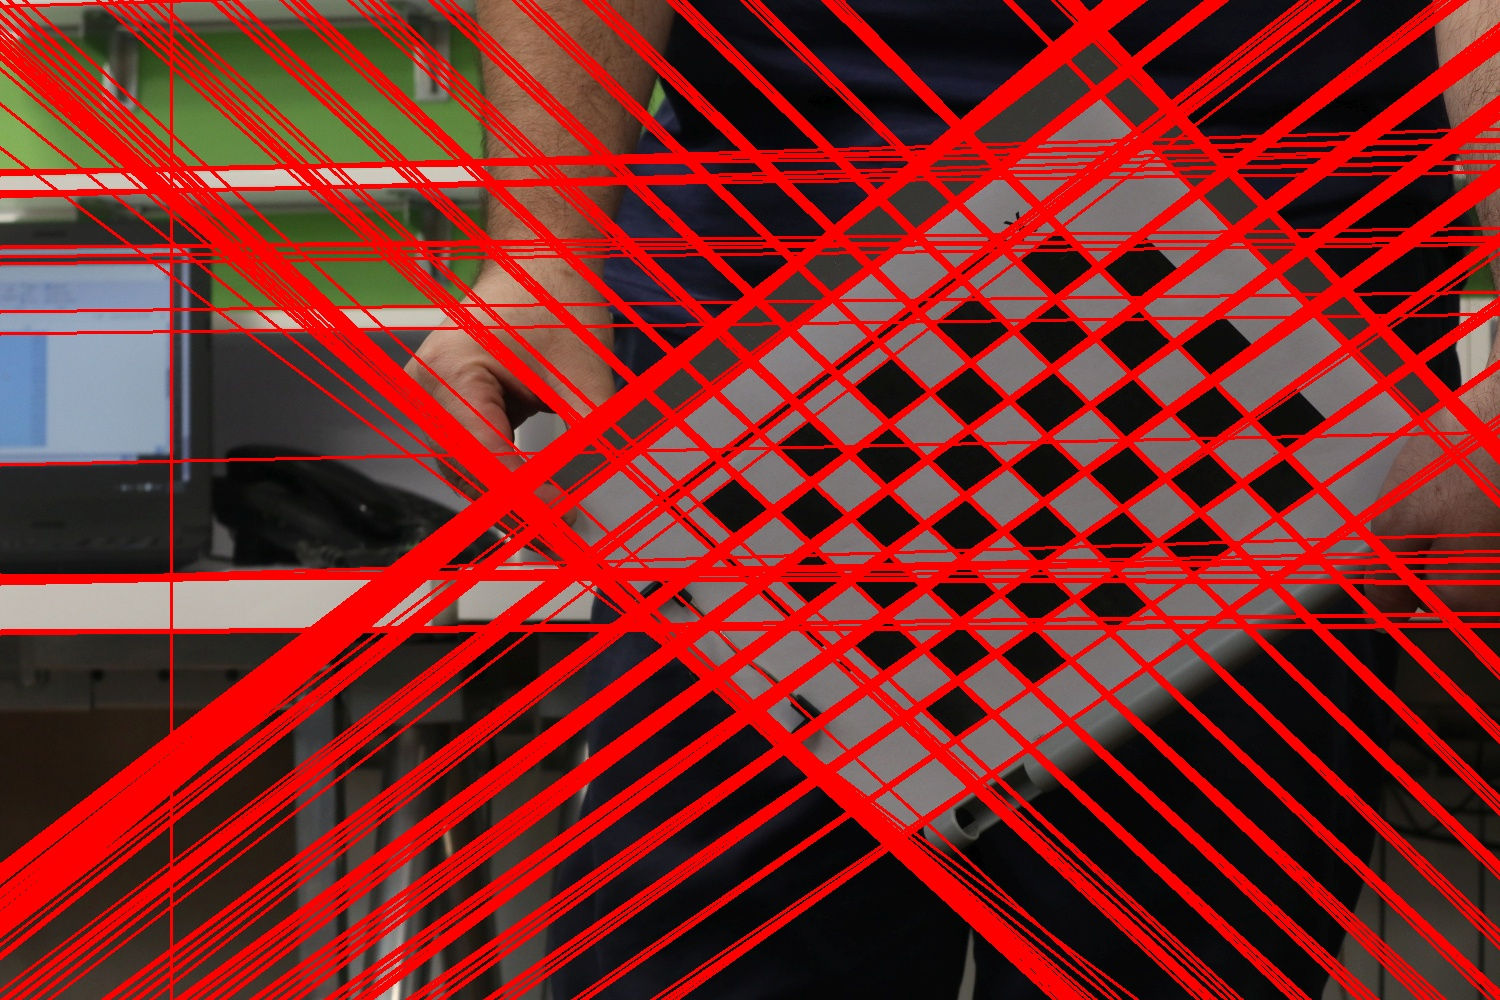
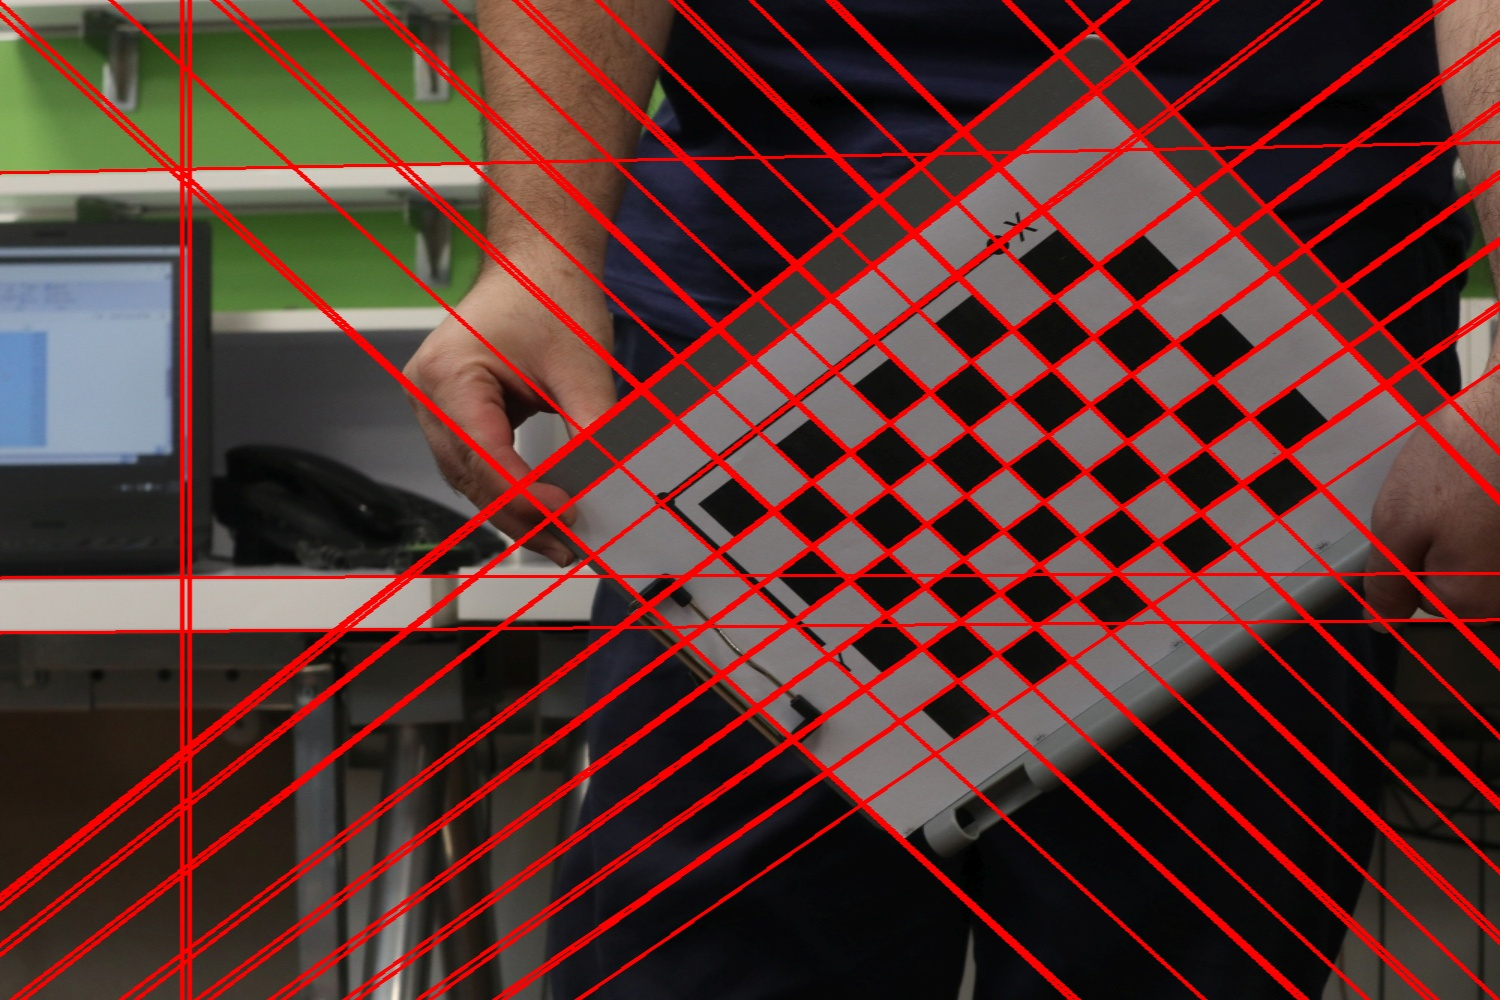
fix:hw3-q1-dim bug fixed

diff --git a/HW3/q1/function.py b/HW3/q1/function.py
@@ -5,167 +5,164 @@ import numpy as np
 from scipy.signal import argrelextrema
 
 
-def normalize(kernel_in): #Map to the int(0, 255) range
-    kernel=kernel_in.copy()
-    kernel=kernel-np.amin(kernel)
-    kernel=(kernel/np.amax(kernel))*255.0
+def normalize(kernel_in):  # Map to the int(0, 255) range
+    kernel = kernel_in.copy()
+    kernel = kernel - np.amin(kernel)
+    kernel = (kernel / np.amax(kernel)) * 255.0
     return np.uint8(kernel)
+
 
 def hough_space(im):
     gray = cv2.cvtColor(im, cv2.COLOR_BGR2GRAY)
-    gray = cv2.GaussianBlur(gray, (3,3), 0) 
-    gray=cv2.resize(gray , (np.min(gray.shape),np.min(gray.shape)) )
+    gray = cv2.GaussianBlur(gray, (3, 3), 0)
+    gray = cv2.resize(gray, (np.min(gray.shape), np.min(gray.shape)))
     edge = cv2.Canny(gray, threshold1=70, threshold2=110)
     edge_h, edge_w = edge.shape
-    d=int(np.sqrt(edge_h**2+edge_w**2))
+    d = int(np.sqrt(edge_h**2 + edge_w**2))
     thetas = np.linspace(-np.pi, np.pi, 360)
-    rhos = np.linspace(-d, d, 2*d)
-    accumulator=np.zeros([len(rhos),len(thetas)])
+    rhos = np.linspace(-d, d, 2 * d)
+    accumulator = np.zeros([len(rhos), len(thetas)])
     for y in range(edge_h):
         for x in range(edge_w):
-            if edge[y,x]!=255: continue  
-            r = x * np.cos(thetas) + y * np.sin(thetas)      
-            for i,row in enumerate(r):
-                r_index=np.argmin(np.abs(rhos-row))  
-                accumulator[r_index][i]+=1
-    return [accumulator , edge]
-        
+            if edge[y, x] != 255:
+                continue
+            r = x * np.cos(thetas) + y * np.sin(thetas)
+            for i, row in enumerate(r):
+                r_index = np.argmin(np.abs(rhos - row))
+                accumulator[r_index][i] += 1
+    return [accumulator, edge]
 
-def find_lines(img,accumulator,thresh=150):
-    h=np.min(img.shape[0:2])
-    d=int(np.sqrt(h**2+h**2))
+
+def find_lines(img, accumulator, thresh=150):
+    h = np.min(img.shape[0:2])
+    d = int(np.sqrt(h**2 + h**2))
     thetas = np.linspace(-np.pi, np.pi, 360)
-    rhos = np.linspace(-d, d, 2*d)  
-    res=argrelextrema(accumulator.reshape(-1),np.greater)
-    (X,Y)=np.unravel_index(res[0], accumulator.shape)
-    lines=[]
-    for i,x in enumerate(X):
-        y=Y[i]
-        if accumulator[x][y]<thresh: continue
-        rho=rhos[x]
-        theta=thetas[y]
-        lines.append([theta,rho])   
+    rhos = np.linspace(-d, d, 2 * d)
+    res = argrelextrema(accumulator.reshape(-1), np.greater)
+    (X, Y) = np.unravel_index(res[0], accumulator.shape)
+    lines = []
+    for i, x in enumerate(X):
+        y = Y[i]
+        if accumulator[x][y] < thresh:
+            continue
+        rho = rhos[x]
+        theta = thetas[y]
+        lines.append([theta, rho])
     return lines
 
 
 def make_mb(my_line):
-    lines=[]
+    lines = []
     for row in my_line:
-        [theta,rho]=[row[0],row[1]]
-        if np.abs(np.abs(theta)-np.pi/2) < np.deg2rad(0.2):
-            lines.append([rho,np.inf,theta,rho])   
-        elif np.abs(np.abs(theta)-np.pi) < np.deg2rad(0.2):
-            lines.append([rho,-np.inf,theta,rho])
-        else: 
-            b=rho/np.sin(theta)
-            m=-np.cos(theta)/np.sin(theta) 
-            lines.append([m,b,theta,rho])
+        [theta, rho] = [row[0], row[1]]
+        if np.abs(np.abs(theta) - np.pi / 2) < np.deg2rad(0.2):
+            lines.append([rho, np.inf, theta, rho])
+        elif np.abs(np.abs(theta) - np.pi) < np.deg2rad(0.2):
+            lines.append([rho, -np.inf, theta, rho])
+        else:
+            b = rho / np.sin(theta)
+            m = -np.cos(theta) / np.sin(theta)
+            lines.append([m, b, theta, rho])
     return lines
 
 
-def avg_near_line(lines_in,th1=0.036,th2=0.9):
-    lines=lines_in.copy()
-    lines.sort(key=lambda x:x[1])
-    tmp=[lines[0]]
-    flag=tmp[-1]
-    lines_out=[]
-    for i in range(1,len(lines)):
-        [theta,rho]=lines[i]
-        if abs(rho-flag[1])/abs(flag[1]) <th1:
-            if abs(theta-flag[0])/abs(flag[0]) <th2:
+def avg_near_line(lines_in, th1=0.036, th2=0.15):
+    lines = lines_in.copy()
+    lines.sort(key=lambda x: x[1])
+    tmp = [lines[0]]
+    flag = tmp[-1]
+    lines_out = []
+    for i in range(1, len(lines)):
+        [theta, rho] = lines[i]
+        if abs(rho - flag[1]) / abs(flag[1]) < th1:
+            if abs(theta - flag[0]) / abs(flag[0]) < th2:
                 tmp.append(lines[i])
-                flag=(np.mean(tmp,axis=0)).tolist()
+                flag = (np.mean(tmp, axis=0)).tolist()
                 continue
-        lines_out.append(np.mean(tmp,axis=0).tolist())
-        tmp=[lines[i]]
-        flag=tmp[-1]
-    lines_out.append(np.mean(tmp,axis=0).tolist())   
+        lines_out.append(np.mean(tmp, axis=0).tolist())
+        tmp = [lines[i]]
+        flag = tmp[-1]
+    lines_out.append(np.mean(tmp, axis=0).tolist())
     return lines_out
 
 
-
-def select_parallel_lines(in_lines,th=2):
-    in_lines.sort(key=lambda x:x[0] )
-    tmp=[in_lines[0]]
-    flag=tmp[-1]
-    lines_out=[]
-    for i in range(1,len(in_lines)):
-        [theta,_]=in_lines[i]
-        if abs(theta-flag[0])/abs(flag[0]) <0.02:
+def select_parallel_lines(in_lines, th=2):
+    in_lines.sort(key=lambda x: x[0])
+    tmp = [in_lines[0]]
+    flag = tmp[-1]
+    lines_out = []
+    for i in range(1, len(in_lines)):
+        [theta, _] = in_lines[i]
+        if abs(theta - flag[0]) / abs(flag[0]) < 0.02:
             tmp.append(in_lines[i])
-            flag=(np.mean(tmp,axis=0)).tolist()
+            flag = (np.mean(tmp, axis=0)).tolist()
             continue
-        if len(tmp)>th:
+        if len(tmp) > th:
             for row in tmp:
                 lines_out.append(row)
-        tmp=[in_lines[i]]
-        flag=in_lines[i]
-    if len(tmp)>th:
+        tmp = [in_lines[i]]
+        flag = in_lines[i]
+    if len(tmp) > th:
         for row in tmp:
             lines_out.append(row)
     return lines_out
 
 
-
-
-def find_chess_lines(img,lines_in):
-    linef=[]
-    lines_in_mb=make_mb(lines_in)
-    for k,row in enumerate(lines_in_mb):
-        mask_up=np.uint8(np.zeros(img.shape))
-        mask_down=np.uint8(np.zeros(img.shape))
-        [m,b]=[row[0],row[1]]
-        x=np.arange(int(img.shape[1]*0.4),int(img.shape[1]*0.9))
-        y=(np.int64(m*x+b)).tolist()
-        x=x.tolist()
+def find_chess_lines(img, lines_in):
+    linef = []
+    lines_in_mb = make_mb(lines_in)
+    for k, row in enumerate(lines_in_mb):
+        mask_up = np.uint8(np.zeros(img.shape))
+        mask_down = np.uint8(np.zeros(img.shape))
+        [m, b] = [row[0], row[1]]
+        x = np.arange(int(img.shape[1] * 0.4), int(img.shape[1] * 0.9))
+        y = (np.int64(m * x + b)).tolist()
+        x = x.tolist()
         for i in range(len(x)):
-            if not  int(img.shape[1]*0.4)<y[i]<int(img.shape[1]*0.8): continue
+            if not int(img.shape[1] * 0.4) < y[i] < int(img.shape[1] * 0.8):
+                continue
             try:
-                margin=35
-                if margin<x[i]<img.shape[0]-margin and margin<y[i]<img.shape[0]-margin:
-                    mask_down[y[i]-margin:y[i],x[i]-margin:x[i],:]=img[y[i]-margin:y[i],x[i]-margin:x[i],:]
-                    mask_up[y[i]-margin:y[i],x[i]-margin:x[i],:]=img[y[i]:y[i]+margin,x[i]:x[i]+margin,:]  
-            except:pass    
-        mask_down=cv2.cvtColor(mask_down, cv2.COLOR_BGR2GRAY)
-        mask_up=cv2.cvtColor(mask_up, cv2.COLOR_BGR2GRAY)
-        res1 = cv2.matchTemplate(mask_down,mask_up,cv2.TM_CCOEFF_NORMED)
-        res2 = cv2.matchTemplate(mask_up,mask_down,cv2.TM_CCOEFF_NORMED)
-        res=(res1[0][0]+res2[0][0])/2
-        if  0.53< res < 0.78:
+                margin = 35
+                if margin < x[i] < img.shape[0] - margin and margin < y[i] < img.shape[0] - margin:
+                    mask_down[y[i] - margin:y[i], x[i] - margin:x[i],:] = img[y[i] - margin:y[i], x[i] - margin:x[i], :]
+                    mask_up[y[i] - margin:y[i], x[i] - margin:x[i],:] = img[y[i]:y[i] + margin, x[i]:x[i] + margin, :]
+            except BaseException:
+                pass
+        mask_down = cv2.cvtColor(mask_down, cv2.COLOR_BGR2GRAY)
+        mask_up = cv2.cvtColor(mask_up, cv2.COLOR_BGR2GRAY)
+        res1 = cv2.matchTemplate(mask_down, mask_up, cv2.TM_CCOEFF_NORMED)
+        res2 = cv2.matchTemplate(mask_up, mask_down, cv2.TM_CCOEFF_NORMED)
+        res = (res1[0][0] + res2[0][0]) / 2
+        if 0.53 < res < 0.78:
             linef.append(lines_in[k])
     return linef
 
 
-
-
-def draw_line(im,lines,thick=2): 
-    img=cv2.resize(im.copy() , (np.min(im.shape[0:2]),np.min(im.shape[0:2])) )
+def draw_line(im, lines, thick=2):
+    img = cv2.resize(im.copy(), (np.min(im.shape[0:2]), np.min(im.shape[0:2])))
     for row in lines:
-        [m,b]=[row[0],row[1]]
-        if b==np.inf :  
-            cv2.line(img,(-5000,round(m)) ,(5000,round(m)) , (0, 0,255 ), thickness=thick)    
-        elif b==-np.inf:
-            cv2.line(img,(-round(m),-5000) ,(-round(m),5000) , (0, 0, 255), thickness=thick)
+        [m, b] = [row[0], row[1]]
+        if b == np.inf:
+            cv2.line(img, (-5000, round(m)), (5000, round(m)),(0, 0, 255), thickness=thick)
+        elif b == -np.inf:
+            cv2.line(img, (-round(m), -5000), (-round(m), 5000),(0, 0, 255), thickness=thick)
         else:
-            p1=(-4000,int(-m*4000+b))
-            p2=(4000,int(m*4000+b))
-            cv2.line(img,p1 ,p2 , (0, 0, 255), thickness=thick)     
+            p1 = (-4000, int(-m * 4000 + b))
+            p2 = (4000, int(m * 4000 + b))
+            cv2.line(img, p1, p2, (0, 0, 255), thickness=thick)
     return img
 
 
-def intersection(img,line_in):
-    linef2_mb=make_mb(line_in)
-    points=[]
+def intersection(img, line_in):
+    linef2_mb = make_mb(line_in)
+    points = []
     for i in range(len(linef2_mb)):
-        for j in range(i+1,len(linef2_mb)):
-            [m1,b1]=[linef2_mb[i][0],linef2_mb[i][1]]
-            [m2,b2]=[linef2_mb[j][0],linef2_mb[j][1]]
-            if abs(m2-m1)/abs(m1)>0.3:     
-                xi = (b1-b2) / (m2-m1)
+        for j in range(i + 1, len(linef2_mb)):
+            [m1, b1] = [linef2_mb[i][0], linef2_mb[i][1]]
+            [m2, b2] = [linef2_mb[j][0], linef2_mb[j][1]]
+            if abs(m2 - m1) / abs(m1) > 0.3:
+                xi = (b1 - b2) / (m2 - m1)
                 yi = m1 * xi + b1
-                if 0<xi<img.shape[0] and 0<yi<img.shape[0]:
-                    points.append([int(xi),int(yi)])
-    return np.int64(avg_near_line(points,0.04,0.04))
-      
-
-
+                if 0 < xi < img.shape[0] and 0 < yi < img.shape[0]:
+                    points.append([int(xi), int(yi)])
+    return np.int64(avg_near_line(points, 0.04, 0.04))

diff --git a/HW3/q1/q1.py b/HW3/q1/q1.py
@@ -3,45 +3,46 @@
 import cv2
 from function import *
 
+
 def main(name):
-    img=cv2.imread(name)
-    dim= img.shape[0:2]
-    img=cv2.resize(img , min(dim),min(dim))
+    img = cv2.imread(name)
+    dim = (img.shape[1], img.shape[0])
+    img = cv2.resize(img, (min(dim), min(dim)))
+    
+    [acc, edge] = hough_space(img)
 
-    [acc,edge]=hough_space(img)
-    lines=find_lines(img,acc,thresh=200)
-    lines=avg_near_line(lines)
-    chess_lines=find_chess_lines(img,lines)
-    chess_lines=select_parallel_lines(chess_lines,2)
-    corners=intersection(img,chess_lines)
+    lines = find_lines(img, acc, thresh=200)
+    lines = avg_near_line(lines)
+    chess_lines = find_chess_lines(img, lines)
+    chess_lines = select_parallel_lines(chess_lines, 2)
+    corners = intersection(img, chess_lines)
 
-    img_line=cv2.resize(draw_line(img,make_mb(lines)),dim)
-    img_chess_line=cv2.resize(draw_line(img,make_mb(chess_lines)),dim)
+    img_line = cv2.resize(draw_line(img, make_mb(lines)), dim)
+    img_chess_line = cv2.resize(draw_line(img, make_mb(chess_lines)), dim)
 
-    img_corners=img.copy()
+    img_corners = img.copy()
     for row in corners:
-        img_corners=cv2.circle(img_corners,(row[0],row[1]),2,(255,0,0),5)
-    img_corners=cv2.resize(img_corners,dim)
+        img_corners = cv2.circle(img_corners, (row[0], row[1]), 2, (0, 255, 0), 4)
+    img_corners = cv2.resize(img_corners, dim)
 
-    edge=cv2.resize(edge , dim )
-    acc_big=cv2.resize(acc , (int(acc.shape[1]*3) , acc.shape[0]//2) )
-    acc_big=normalize(3*normalize(acc_big))
-    return [edge , acc , acc_big , img_line , img_chess_line , img_corners]
-
-
-[edge1 , acc1 , acc_big1 , img_line1 , img_chess_line1 , img_corners1]=main('im01.jpg')
-cv2.imwrite('res01.jpg',edge1)
-cv2.imwrite('res03-hough-space.jpg',acc1)
-cv2.imwrite('res03-hough-space-big.jpg',acc_big1)
-cv2.imwrite('res05-lines.jpg',img_line1)
-cv2.imwrite('res07-chess.jpg',img_chess_line1)
-cv2.imwrite('res09-corners.jpg',img_corners1)
+    edge = cv2.resize(edge, dim)
+    acc_big = cv2.resize(acc, (int(acc.shape[1] * 3), acc.shape[0] // 2))
+    acc_big = normalize(3 * normalize(acc_big))
+    return [edge, acc, acc_big, img_line, img_chess_line, img_corners]
 
 
-[edge2 , acc2 , acc_big2 , img_line2 , img_chess_line2 , img_corners2]=main('im02.jpg')
-cv2.imwrite('res02.jpg',edge2)
-cv2.imwrite('res04-hough-space.jpg',acc2)
-cv2.imwrite('res04-hough-space-big.jpg',acc_big2)
-cv2.imwrite('res06-lines.jpg',img_line2)
-cv2.imwrite('res08-chess.jpg',img_chess_line2)
-cv2.imwrite('res10-corners.jpg',img_corners2)
+[edge1, acc1, acc_big1, img_line1, img_chess_line1,img_corners1] = main('im01.jpg')
+cv2.imwrite('res01.jpg', edge1)
+cv2.imwrite('res03-hough-space.jpg', acc1)
+cv2.imwrite('res03-hough-space-big.jpg', acc_big1)
+cv2.imwrite('res05-lines.jpg', img_line1)
+cv2.imwrite('res07-chess.jpg', img_chess_line1)
+cv2.imwrite('res09-corners.jpg', img_corners1)
+
+[edge2, acc2, acc_big2, img_line2, img_chess_line2,img_corners2] = main('im02.jpg')
+cv2.imwrite('res02.jpg', edge2)
+cv2.imwrite('res04-hough-space.jpg', acc2)
+cv2.imwrite('res04-hough-space-big.jpg', acc_big2)
+cv2.imwrite('res06-lines.jpg', img_line2)
+cv2.imwrite('res08-chess.jpg', img_chess_line2)
+cv2.imwrite('res10-corners.jpg', img_corners2)
